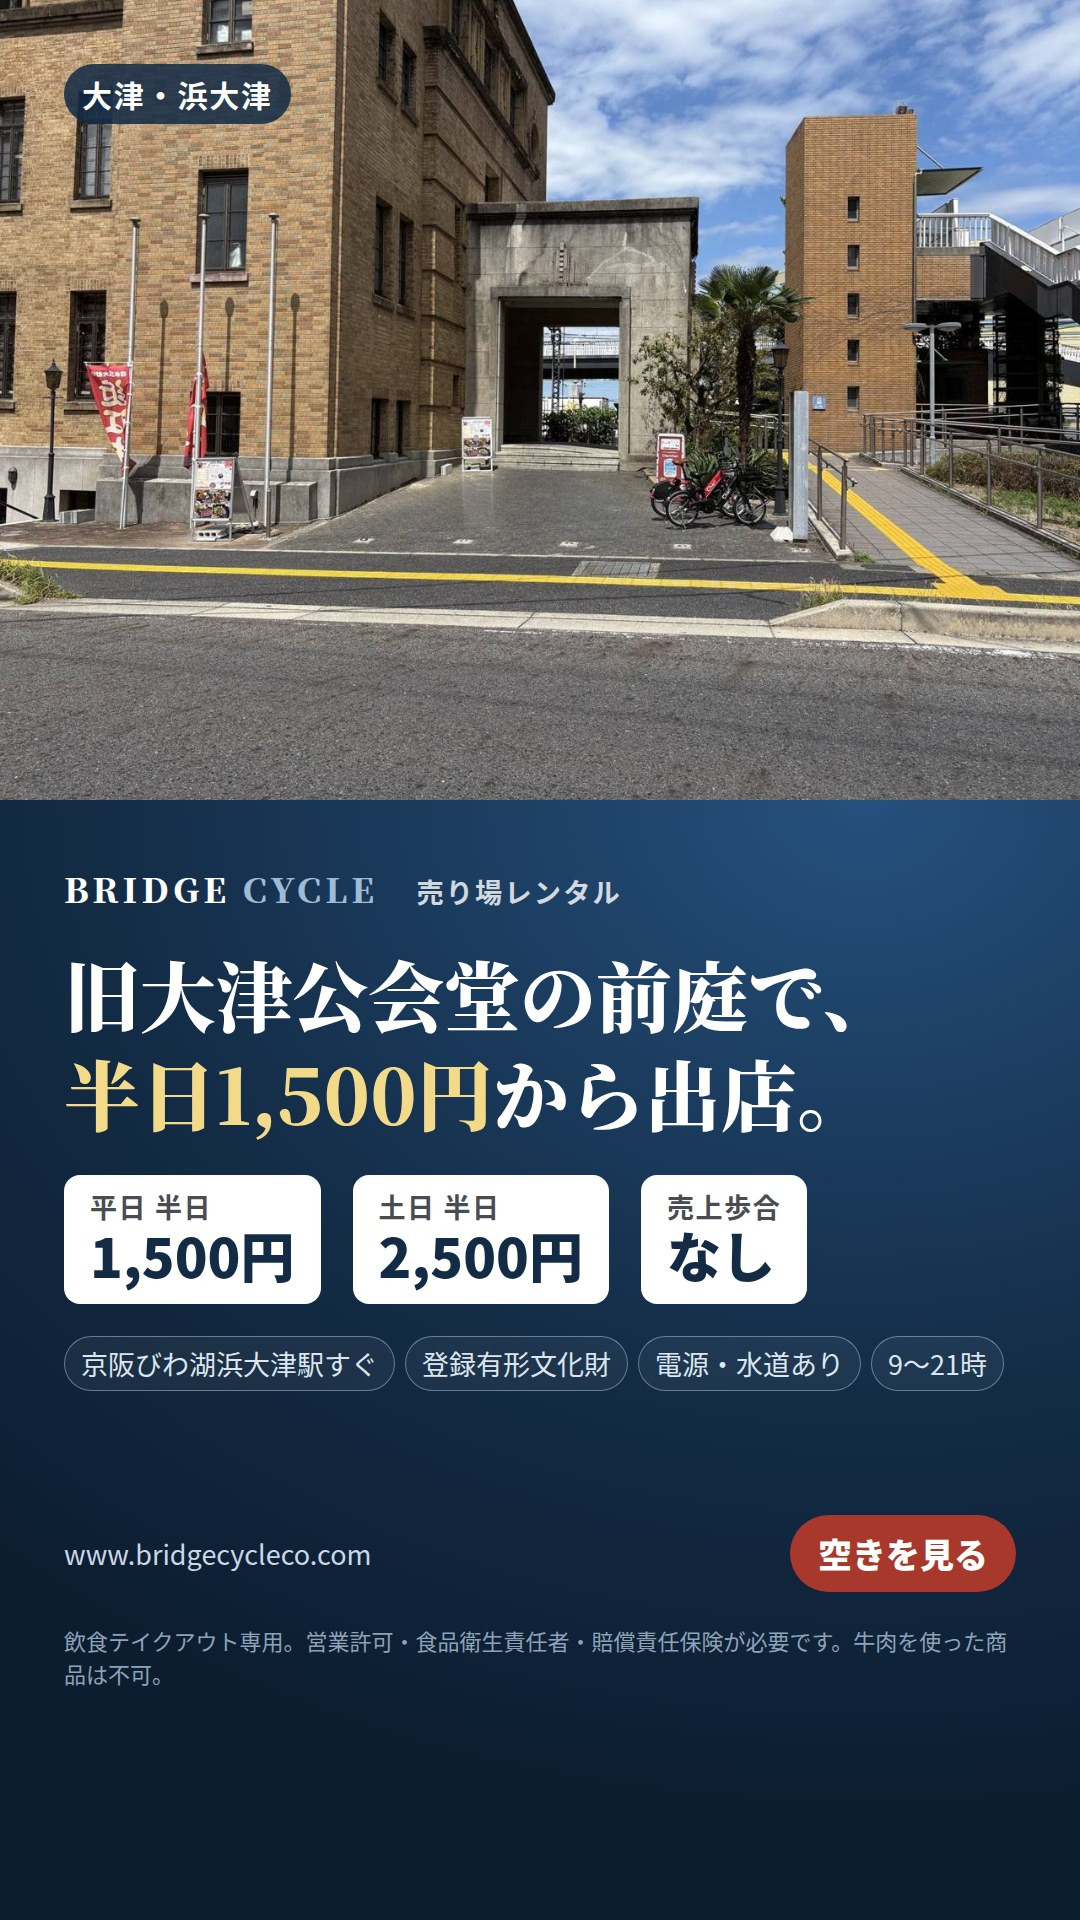
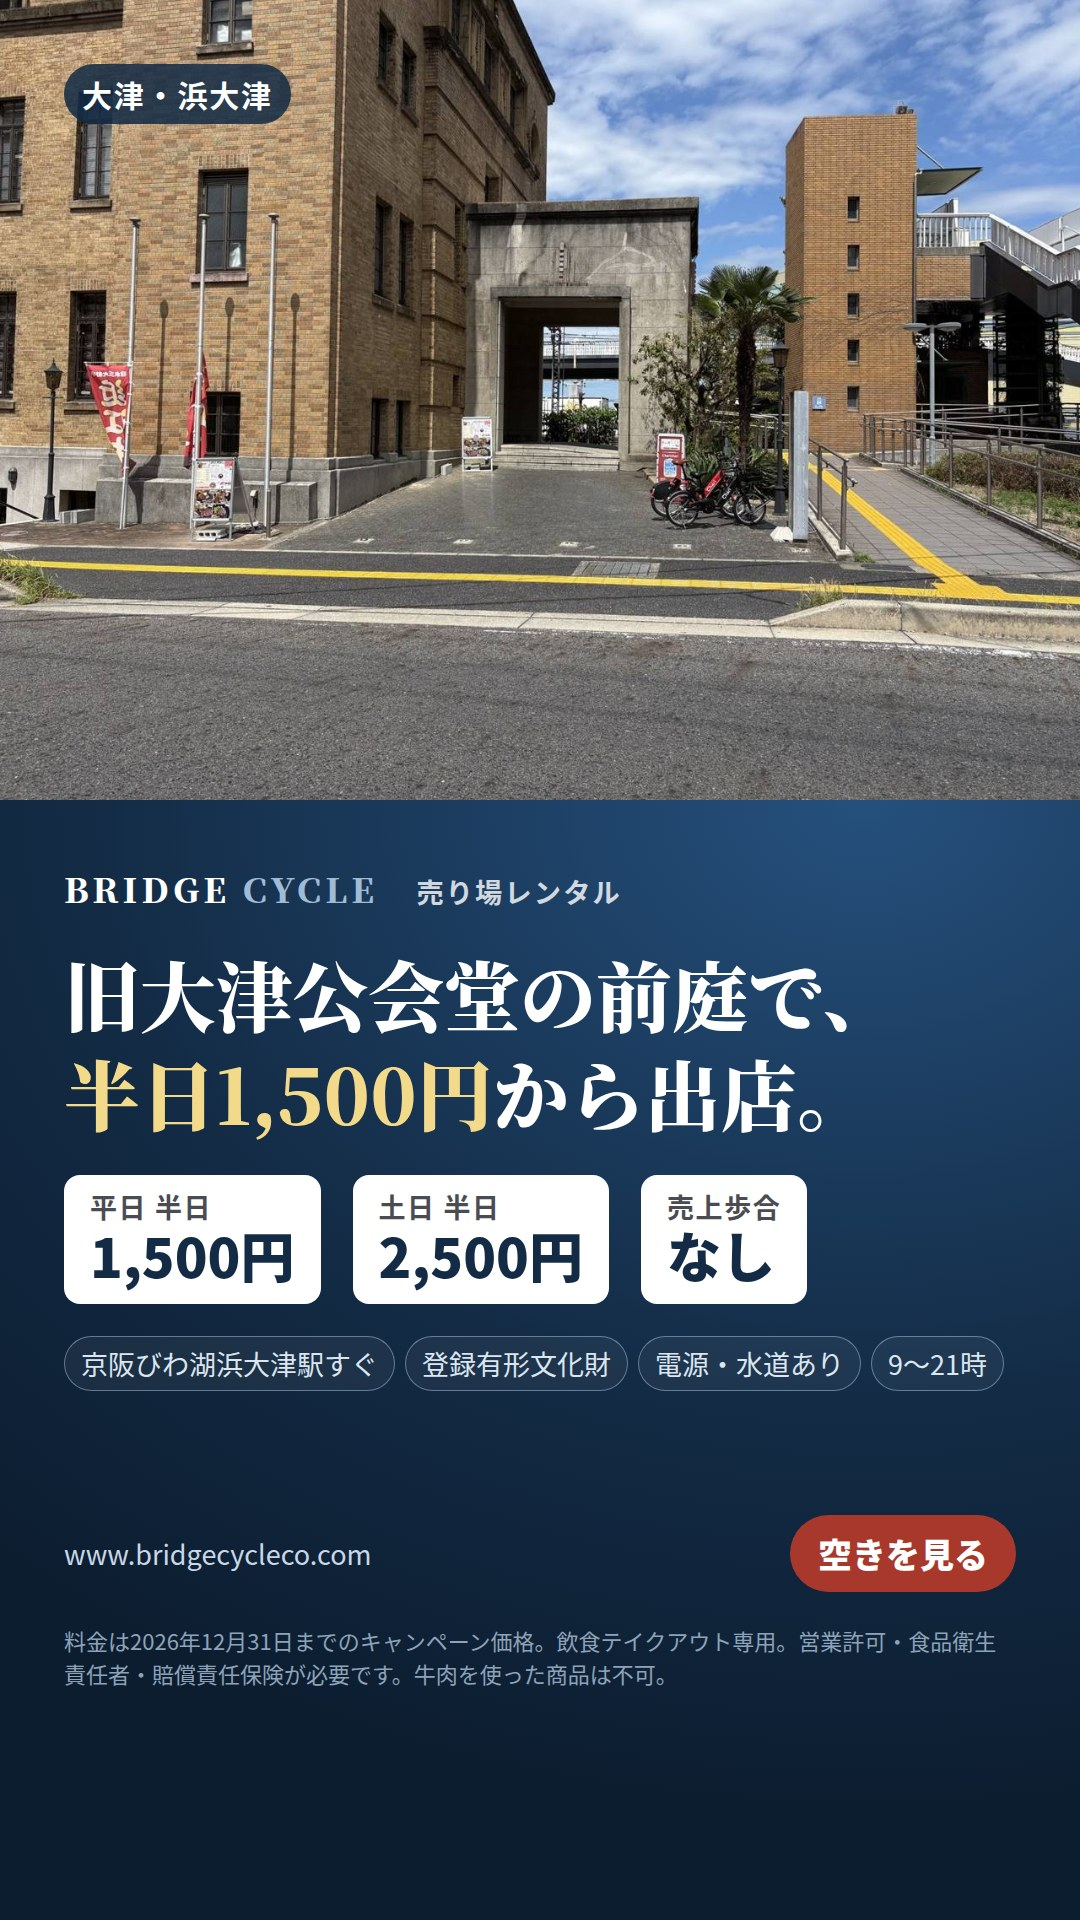
誤解防止：売り場の料金に「2026年12月31日までのキャンペーン価格」を明記（紹介文・画像・制度ページ・告知キット）、告知キットに「出店日が確定し支払い後に告知」を明記、紹介のお礼の表現を未確定に合わせて修正
Claude-Session: https://claude.ai/code/session_01XejNx1qn4L7qCuKTiudVm7

Changed region(s): [[0.0611, 0.8438, 0.9472, 0.875]]

diff --git a/uriba-kit.html b/uriba-kit.html
@@ -60,7 +60,7 @@ footer{background:#132B45;color:#9FB4C9;padding:26px 0 32px;font-size:12px;text-
 <header class="hero"><div class="wrap">
   <span class="badge">設置費・月額・作業 すべて0円</span>
   <h1>「一度、売ってみたい」人に<br>旧大津公会堂の売り場をご紹介いただくキット</h1>
-  <p class="lead">京阪びわ湖浜大津駅すぐ、登録有形文化財の前庭で、平日 半日1,500円から出店できる売り場です。リンクかQRを1つ置いていただくだけで構いません。</p>
+  <p class="lead">京阪びわ湖浜大津駅すぐ、登録有形文化財の前庭で、平日 半日1,500円から出店できる売り場です（2026年12月31日までのキャンペーン価格）。リンクかQRを1つ置いていただくだけで構いません。</p>
   <div class="photo"><img src="share/uriba-1200x630.jpg" alt="旧大津公会堂の前庭で半日1,500円から出店" width="1200" height="630"></div>
 </div></header>
 <main><div class="wrap">
@@ -84,7 +84,7 @@ footer{background:#132B45;color:#9FB4C9;padding:26px 0 32px;font-size:12px;text-
   </div>
   <p id="desc"></p>
   <div class="facts">
-    <div>出店料<b>平日 半日1,500円／土日 半日2,500円</b></div>
+    <div>出店料（2026年12月31日までのキャンペーン価格）<b>平日 半日1,500円／土日 半日2,500円</b></div>
     <div>時間<b>昼の部 9〜15時／夜の部 15〜21時</b></div>
     <div>設備<b>電源・水道あり、売上歩合なし</b></div>
     <div>条件<b>飲食テイクアウト専用・許可等が必要</b></div>
@@ -147,11 +147,11 @@ footer{background:#132B45;color:#9FB4C9;padding:26px 0 32px;font-size:12px;text-
   var ref=clean(q.get('ref'));
   if(!ref){try{ref=clean(localStorage.getItem('bc_my_code'));}catch(e){}}
   var D={
-    school:['生徒さんの「作ったものを一度売ってみたい」に。物件契約・保証金なしで、半日から試せます。','教室で作ったお菓子やパンを、一度お客さんに売ってみたい方へ。\n京阪びわ湖浜大津駅すぐ、旧大津公会堂（登録有形文化財）の前庭で、平日 半日1,500円から出店できます。電源・水道あり、売上歩合なし。\n※飲食テイクアウト専用。営業許可・食品衛生責任者・賠償責任保険が必要です。'],
-    event:['イベントの合間の「平日の練習の場」に。日程の空きを、出店者さん自身で選べます。','イベントのない週にも売る場所がほしい方へ。\n浜大津の旧大津公会堂の前庭で、平日 半日1,500円・土日 半日2,500円から出店できます。空き状況を見て、その場で申し込めます。電源・水道あり、売上歩合なし。\n※飲食テイクアウト専用。営業許可・食品衛生責任者・賠償責任保険が必要です。'],
-    shien:['創業前のテスト販売に。物件を借りる前に、売れるかどうかを半日1,500円で確かめられます。','お店を開く前に、売れるかどうかを確かめたい方へ。\n物件契約・保証金なしで、旧大津公会堂の前庭（京阪びわ湖浜大津駅すぐ）に半日1,500円から出店できます。販売データをまとめるパックもあります。\n※飲食テイクアウト専用。営業許可・食品衛生責任者・賠償責任保険が必要です。'],
-    shop:['2号店の候補地や新商品を、本店を休まず試したい店主さんに。週末だけの出張販売所としても使えます。','2号店を出す前に、別の商圏で売れるかを試してみませんか。\n浜大津の旧大津公会堂の前庭で、半日から出店できます（平日1,500円・土日2,500円、売上歩合なし）。新商品のテスト販売にも。\n※飲食テイクアウト専用。大津市内で有効な営業許可・届出が必要です。'],
-    friend:['一緒に出店する仲間に。出店日の告知に使える「出店日の告知キット」（shutten-kit.html）もあります。紹介した方・された方の両方にお礼があります（詳しくは紹介パートナー制度のページ）。','私も使っている売り場の紹介です。\n京阪びわ湖浜大津駅すぐ、旧大津公会堂の前庭で、平日 半日1,500円から出店できます。電源・水道あり、売上歩合なし。空きを見てその場で申し込めます。\n※飲食テイクアウト専用。営業許可・食品衛生責任者・賠償責任保険が必要です。']
+    school:['生徒さんの「作ったものを一度売ってみたい」に。物件契約・保証金なしで、半日から試せます。','教室で作ったお菓子やパンを、一度お客さんに売ってみたい方へ。\n京阪びわ湖浜大津駅すぐ、旧大津公会堂（登録有形文化財）の前庭で、平日 半日1,500円から出店できます。電源・水道あり、売上歩合なし。\n※料金は2026年12月31日までのキャンペーン価格です。\n※飲食テイクアウト専用。営業許可・食品衛生責任者・賠償責任保険が必要です。'],
+    event:['イベントの合間の「平日の練習の場」に。日程の空きを、出店者さん自身で選べます。','イベントのない週にも売る場所がほしい方へ。\n浜大津の旧大津公会堂の前庭で、平日 半日1,500円・土日 半日2,500円から出店できます。空き状況を見て、その場で申し込めます。電源・水道あり、売上歩合なし。\n※料金は2026年12月31日までのキャンペーン価格です。\n※飲食テイクアウト専用。営業許可・食品衛生責任者・賠償責任保険が必要です。'],
+    shien:['創業前のテスト販売に。物件を借りる前に、売れるかどうかを半日1,500円で確かめられます。','お店を開く前に、売れるかどうかを確かめたい方へ。\n物件契約・保証金なしで、旧大津公会堂の前庭（京阪びわ湖浜大津駅すぐ）に半日1,500円から出店できます。販売データをまとめるパックもあります。\n※料金は2026年12月31日までのキャンペーン価格です。\n※飲食テイクアウト専用。営業許可・食品衛生責任者・賠償責任保険が必要です。'],
+    shop:['2号店の候補地や新商品を、本店を休まず試したい店主さんに。週末だけの出張販売所としても使えます。','2号店を出す前に、別の商圏で売れるかを試してみませんか。\n浜大津の旧大津公会堂の前庭で、半日から出店できます（平日1,500円・土日2,500円、売上歩合なし）。新商品のテスト販売にも。\n※料金は2026年12月31日までのキャンペーン価格です。\n※飲食テイクアウト専用。大津市内で有効な営業許可・届出が必要です。'],
+    friend:['一緒に出店する仲間に。出店日の告知に使える「出店日の告知キット」（shutten-kit.html）もあります。紹介した方・された方の両方にお礼があります（詳しくは紹介パートナー制度のページ）。','私も使っている売り場の紹介です。\n京阪びわ湖浜大津駅すぐ、旧大津公会堂の前庭で、平日 半日1,500円から出店できます。電源・水道あり、売上歩合なし。空きを見てその場で申し込めます。\n※料金は2026年12月31日までのキャンペーン価格です。\n※飲食テイクアウト専用。営業許可・食品衛生責任者・賠償責任保険が必要です。']
   };
   var f=(q.get('for')||'school').replace(/[^a-z]/g,''); if(!D[f])f='school';
   function qrPng(text,px){

diff --git a/shutten-kit.html b/shutten-kit.html
@@ -54,7 +54,7 @@ footer{background:#132B45;color:#9FB4C9;padding:24px 0 30px;font-size:12px;text-
 <nav class="nav"><div class="wrap"><a class="logo" href="./">BRIDGE <b>CYCLE</b></a><span class="sp">出店者さん向け</span></div></nav>
 <header class="hero"><div class="wrap">
   <h1>出店日の告知を、1分で。</h1>
-  <p class="lead">旧大津公会堂に出店される方向けです。出店日と屋号を入れると、Instagram・ストーリーズ用の画像と投稿文ができます。入力した内容と写真は、このスマホの中だけで処理され、どこにも送られません。</p>
+  <p class="lead"><b style="color:var(--shu)">出店日が確定し、お支払いが済んでから告知してください。</b><br>旧大津公会堂に出店される方向けです。出店日と屋号を入れると、Instagram・ストーリーズ用の画像と投稿文ができます。入力した内容と写真は、このスマホの中だけで処理され、どこにも送られません。</p>
 </div></header>
 <main><div class="wrap">
 
@@ -70,7 +70,7 @@ footer{background:#132B45;color:#9FB4C9;padding:24px 0 30px;font-size:12px;text-
     <div class="f"><label for="ig">InstagramのID（任意）</label><input id="ig" maxlength="30" placeholder="例：@your_shop"></div>
     <div class="f"><label for="ph">写真（任意）</label><input type="file" id="ph" accept="image/*"><div class="h">商品やお店の写真。なければ公会堂の写真になります</div></div>
   </div>
-  <label class="chk"><input type="checkbox" id="rec"><span>投稿の最後に「ここで出店してみたい方へ」の一文を入れる<br><small style="color:var(--ink3)">このリンクから出店が決まると、紹介のお礼があります（そのため投稿に「#PR」が付きます）</small></span></label>
+  <label class="chk"><input type="checkbox" id="rec"><span>投稿の最後に「ここで出店してみたい方へ」の一文を入れる<br><small style="color:var(--ink3)">運営のBRIDGE CYCLEから紹介のお礼を受け取る場合は、法律（景品表示法）で「#PR」の表示が必要なため、この一文には「#PR」を付けています。お礼の内容は、別途ご案内します。</small></span></label>
 </section>
 
 <section class="st">
@@ -164,8 +164,8 @@ footer{background:#132B45;color:#9FB4C9;padding:24px 0 30px;font-size:12px;text-
   function caption(){
     var nm=$('#nm').value||'（屋号）',it=$('#it').value,dl=dateLabel(),tm=$('#tm').value,ig=$('#ig').value.trim(),rec=$('#rec').checked;
     var tag='#旧大津公会堂 #浜大津 #大津グルメ #大津テイクアウト #滋賀グルメ #びわ湖';
-    var r='\n\n――\nこの場所、半日1,500円から出店できます。出してみたい方はこちら（許可などの条件あり）\n'+REC+'\n#PR';
-    if(tab==='ig') return dl+' '+tm+'、旧大津公会堂の前庭に出店します。\n'+(it?'\n'+it+'\n':'')+'\n場所：旧大津公会堂 前庭（京阪びわ湖浜大津駅すぐ）\n時間：'+tm.replace(/^.+? /,'')+'\n地図はストーリーズのリンクから\n\n'+tag+(rec?'\n\n――\nこの場所、半日1,500円から出店できます。出してみたい方は @bridgecycle_otsu へ。「'+nm+'の投稿を見た」と伝えてください（許可などの条件あり）\n#PR':'');
+    var r='\n\n――\nこの場所、半日1,500円から出店できます（2026年12月31日までのキャンペーン価格）。出してみたい方はこちら（許可などの条件あり）\n'+REC+'\n#PR';
+    if(tab==='ig') return dl+' '+tm+'、旧大津公会堂の前庭に出店します。\n'+(it?'\n'+it+'\n':'')+'\n場所：旧大津公会堂 前庭（京阪びわ湖浜大津駅すぐ）\n時間：'+tm.replace(/^.+? /,'')+'\n地図はストーリーズのリンクから\n\n'+tag+(rec?'\n\n――\nこの場所、半日1,500円から出店できます（2026年12月31日までのキャンペーン価格）。出してみたい方は @bridgecycle_otsu へ。「'+nm+'の投稿を見た」と伝えてください（許可などの条件あり）\n#PR':'');
     if(tab==='th') return dl+' '+tm+'、浜大津の旧大津公会堂の前庭に「'+nm+'」で出店します。'+(it?'\n'+it:'')+'\n地図：'+MAP+(rec?r:'');
     return '【出店のお知らせ】\n'+dl+' '+tm+'\n旧大津公会堂 前庭（京阪びわ湖浜大津駅すぐ）に「'+nm+'」で出店します。'+(it?'\n'+it:'')+'\nお近くの方はぜひお立ち寄りください。\n地図：'+MAP+(rec?r:'');
   }

diff --git a/partners.html b/partners.html
@@ -118,7 +118,7 @@ footer a{color:#C6D6E5}
     <h3>旧大津公会堂 売り場レンタル</h3>
     <p class="who">「一度、売ってみたい」飲食テイクアウトの出店者に（営業許可などが必要）</p>
     <table>
-      <tr><th>紹介するもの</th><td>京阪びわ湖浜大津駅すぐ、登録有形文化財の前庭の売り場。平日 半日1,500円・土日 半日2,500円、売上歩合なし</td></tr>
+      <tr><th>紹介するもの</th><td>京阪びわ湖浜大津駅すぐ、登録有形文化財の前庭の売り場。平日 半日1,500円・土日 半日2,500円（2026年12月31日までのキャンペーン価格）、売上歩合なし</td></tr>
       <tr><th>成果</th><td>紹介した方が初めて出店し、出店料のお支払いが済んだとき</td></tr>
       <tr><th>お礼</th><td><b class="rw" data-rw="uriba">最初の出店日から90日間の出店料の20%</b><br><span style="font-size:12.5px;color:var(--ink3)">例：土日に半日×月4回なら 2,500円×4回×3か月×20%＝6,000円。販売実証パック（33,000円）なら6,600円</span><br><b>出店仲間どうしの紹介</b>は、紹介した方・された方それぞれに<b>平日 半日1回分の無料出店枠</b>（出店者さんは、上の20%とこの無料枠のどちらかを選べます）</td></tr>
       <tr><th>向いている方</th><td>料理・製菓教室、マルシェ・イベント主催者、創業支援機関、出店者さん</td></tr>
